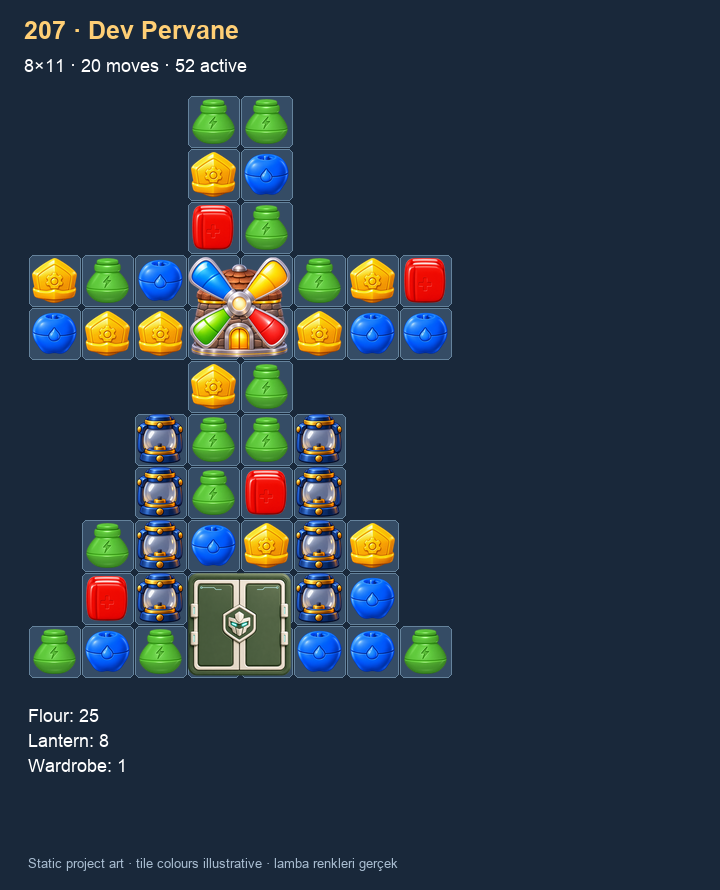
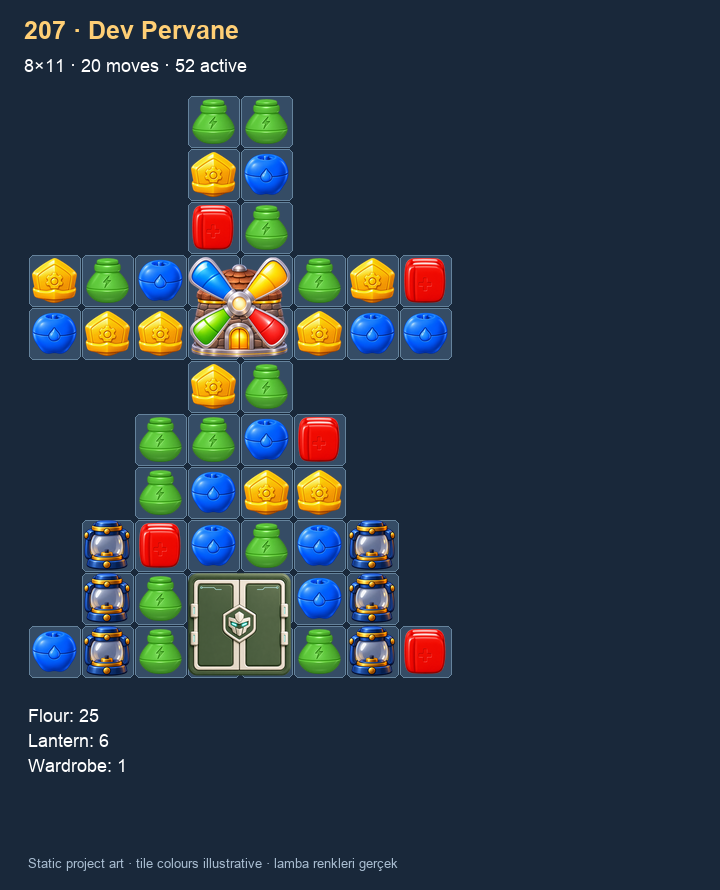
commift bumpflow error

Changed region(s): [[0.0306, 0.4551, 0.6417, 0.7584]]

diff --git a/Assets/_Project/Scripts/Grid/Board/CascadeLogic.cs b/Assets/_Project/Scripts/Grid/Board/CascadeLogic.cs
@@ -250,8 +250,14 @@ public partial class CascadeLogic
         return true;
     }
 
+    /// Son planda bir çapraz kayma GEÇİCİ bir sebeple ertelendi mi (kaynak taş köşede henüz durmadı, geçici desteğe
+    /// dayanıyor, bekleyen special). Pompa bu durumda üstü kapalı cebi yeniden dener; aksi hâlde deneme yalnız taş
+    /// inişi/temizlik sayacına bağlıydı ve hızlı yıkım / special oluşumu sonrası değirmen altı gibi cepler boş kalıyordu.
+    internal bool DeferredDiagonalSlide { get; private set; }
+
     private List<BoardAction> CalculateCascadesNow()
     {
+        DeferredDiagonalSlide = false;
         board.IncrementFallGeneration();
 #if UNITY_EDITOR
         DiagonalFlowTrace.BeginPlan(board);
@@ -898,10 +904,13 @@ public partial class CascadeLogic
         // against the then-current board. Pass-through voids keep their route-based
         // source handling since a stone cannot rest inside a mask hole.
         if (board.UseFlowPump && sourceY == fromY && !IsSlideSourceAtCorner(sourceTile, fromX, fromY))
+        {
+            DeferredDiagonalSlide = true;
             return false;
+        }
 
         // Tutulan / anchor'lı hücredeki taş yerinde kalır (dikey geçişte de hareket etmez).
-        if (board.IsPendingTriggeredSpecialCell(fromX, sourceY)) return false;
+        if (board.IsPendingTriggeredSpecialCell(fromX, sourceY)) { DeferredDiagonalSlide = true; return false; }
 
         // Cargo (exitAtBottom): asla diagonal kaymaz, yalnızca düz aşağı düşer.
         if (sourceTile.IsStraightFallOnly) return false;
@@ -915,7 +924,10 @@ public partial class CascadeLogic
         // taş, line/pulse alanı). Kaynak taş kalıcı zemine değil geçici desteğe dayanıyorsa durur; destek
         // kalkınca dikey düşer. Aksi hâlde "öndekiler durdu, arkadaki çapraza kaçtı" olur.
         if (RestsOnTemporarySupport(virtualBoard, fromX, sourceY))
+        {
+            DeferredDiagonalSlide = true;
             return false;
+        }
 
         // Special'lar diagonal'e savrulmasın: düz inmeyi tercih ederler. skipSpecials=true
         // olan ilk geçişte special kaynak atlanır; yalnızca son çare geçişinde (başka filler yoksa)

diff --git a/Assets/_Project/Scripts/Grid/Board/BoardFlowPump.cs b/Assets/_Project/Scripts/Grid/Board/BoardFlowPump.cs
@@ -27,7 +27,7 @@ internal sealed class BoardFlowPump
     private readonly List<TileView> group = new();
     private int lastDiagonalTry = -1;
     private int quietVersion, quietClears, quietLandings;
-    private bool hasQuietSnapshot, hasPendingMatches;
+    private bool hasQuietSnapshot, hasPendingMatches, retryDeferredDiagonal;
 
     private bool CanSleep => !board.IsBusy && board.ActiveBackgroundJobs == 0
         && !board.IsActionSequencePlaying && !board.CascadeLogic.IsGravityBusy;
@@ -61,14 +61,19 @@ internal sealed class BoardFlowPump
                 board.RefreshAllSortingOrders();
                 worked = true;
             }
+            // Çapraz kayma geçici sebeple ertelendiyse denemeyi harcama ve uyuma: kaynak taş durunca / destek
+            // kalkınca sonraki karede yeniden planlanır. Ertelenme kısa sürer → tarama da kısa sürer.
+            retryDeferredDiagonal = falls.Count == 0 && board.CascadeLogic.DeferredDiagonalSlide;
+            if (retryDeferredDiagonal) lastDiagonalTry = -1;
         }
+        else retryDeferredDiagonal = false;
 
         if (ClearSettledGroups())
             worked = true;
 
         if (worked)
             board.NoteFlowPumpWork();
-        else if (!hasPendingMatches && CanSleep && version == board.MatchFinder.ChangeVersion
+        else if (!hasPendingMatches && !retryDeferredDiagonal && CanSleep && version == board.MatchFinder.ChangeVersion
             && clears == board.ClearedCellCount && landings == board.FallMotion.LandedCount)
         {
             quietVersion = version;

diff --git a/Docs/LevelDesign/Batches/206-210-Windmill/design2.py b/Docs/LevelDesign/Batches/206-210-Windmill/design2.py
@@ -44,19 +44,21 @@ def lv(rows, **kw):
 @level(207)
 def l207():
     # Dev Pervane (Normal): tahta dev bir yel değirmeni — artı kanatlar, gerçek değirmen göbekte (kanatları yalnız
-    # special kırar). Gövdenin iki kenarında fener sütunları (kullanıcı: fener sütunda dizilince güzel), dipte kapı dolabı.
+    # special kırar). Gövdenin dış kenarlarında fener sütunları (kullanıcı: fener sütunda dizilince güzel), dipte kapı dolabı.
+    # v2.1: fenerler 2./5. sütundaydı → değirmen altındaki orta sütunları iki yandan kapatıp tek dar girişe bağlıyordu
+    # (kullanıcı 207'de kalmaması gereken boşluklar gördü). Dış kenara alındı: 2./5. sütun deliklerden düz dolar.
     return lv(["...oo...",
                "...oo...",
                "...oo...",
                "oooMMooo",
                "oooMMooo",
                "...oo...",
-               "..LooL..",
-               "..LooL..",
-               ".oLooLo.",
-               ".oLWWLo.",
-               "oooWWooo"], moves=20,
-              goals=[ob(FLOUR, 25), ob(LANTERN, 8), ob(WARDROBE, 1)], name=('Dev Pervane', 'Giant Sails'))
+               "..oooo..",
+               "..oooo..",
+               ".LooooL.",
+               ".LoWWoL.",
+               "oLoWWoLo"], moves=20,
+              goals=[ob(FLOUR, 25), ob(LANTERN, 6), ob(WARDROBE, 1)], name=('Dev Pervane', 'Giant Sails'))
 
 @level(208)
 def l208():

diff --git a/Docs/LevelDesign/Batches/206-210-Windmill/README-207-210.md b/Docs/LevelDesign/Batches/206-210-Windmill/README-207-210.md
@@ -6,7 +6,7 @@ Yazıcı `design2.py` (check | write, ASCII tahta). Yedek: `before/`. Önizleme 
 
 | Lv | Ad | Tür | Siluet / fikir | Hamle | Hedef |
 |---|---|---|---|---|---|
-| 207 | Dev Pervane / Giant Sails | Normal | Tahta dev yel değirmeni: artı kanatlar, gerçek değirmen göbekte; gövde kenarlarında fener sütunları, dipte kapı dolabı | 20 | Un 25 · Fener 8 · Dolap 1 |
+| 207 | Dev Pervane / Giant Sails | Normal | Tahta dev yel değirmeni: artı kanatlar, gerçek değirmen göbekte; gövdenin dış kenarlarında fener sütunları, dipte kapı dolabı | 20 | Un 25 · Fener 6 · Dolap 1 |
 | 208 | Baykuşlu Ağaç / Owl Tree | Normal | Taç + dar gövde + kökler; dalda 5 baykuş, taç kenarlarında L/ters L kuş evleri, kök köşelerinde değirmen | 24 | Un 50 · Kuş 18 · Baykuş 5 |
 | 209 | Dört Kanat / Four Sails | Super Hard | Delikten artı 4 oda; üst odaların dış kenarında fener sütunları, alt odaların dış köşesinde L kuş evleri, iç dipte değirmenler | 25 | Un 40 · Kuş 18 · Fener 10 |
 | 210 | Un Çuvalı / Flour Sack | Boss | Bağlı ağızlı çuval; omuzlarda değirmen, iki yan dikişte fener sütunları, dipte kalkan (yardımcı) | 30 | Boss 560 · Un 50 · Fener 8 |
@@ -16,3 +16,5 @@ Yazıcı `design2.py` (check | write, ASCII tahta). Yedek: `before/`. Önizleme 
 - Un kuralı değişti (aynı gün): çuval sabit alana (25 → 5×5) döker; delik/kenar/engel/unlu/ıslak hücreye denk gelen un
   kaybolur ve hedef azalır (WindmillService.SpreadFlour).
 - **Oynanmadı.** Statik kontrol geçti; Unity Play/build/sim yok, denge ölçülmedi.
+- 207 v2.1: kullanıcı 207'de kalmaması gereken boşluklar gördü. Fener sütunları 2./5. sütundaydı; değirmen altındaki orta
+  sütunları iki yandan kapatıp (fener köşeden çapraz geçirmez) tek dar girişe bağlıyordu → dış kenara (1./6.) alındı.
